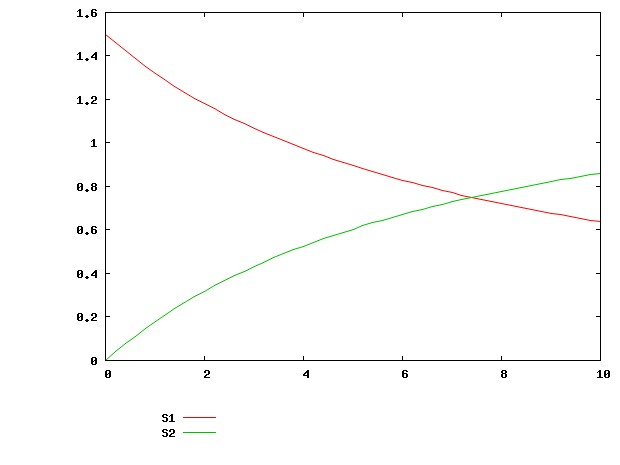
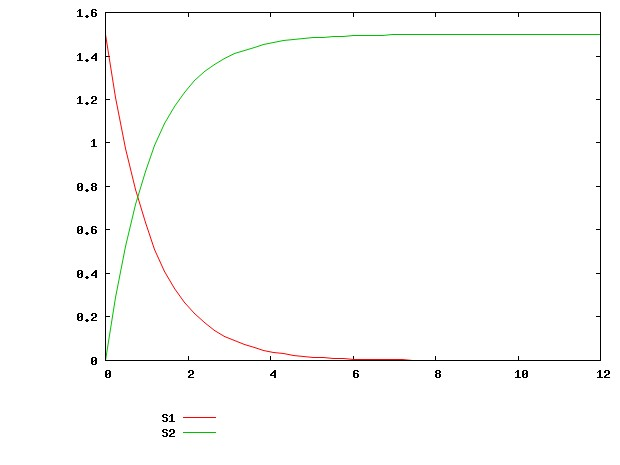
Tracker issue #2172466 these models assigned value to a compartment using a species; which is cyclical and not valid SBML

diff --git a/cases/semantic/00312/00312-model.m b/cases/semantic/00312/00312-model.m
@@ -3,26 +3,28 @@
 category:      Test
 synopsis:      Basic single forward reaction with two species in a compartment
                whose volume is varying.
-componentTags: Compartment, Species, Reaction, Parameter, AssignmentRule 
-testTags:      InitialAmount, NonConstantCompartment
+componentTags: Compartment, Species, Reaction, Parameter, AssignmentRule, RateRule 
+testTags:      InitialAmount, NonConstantCompartment, NonConstantParameter
 testType:      TimeCourse
 levels:        1.2, 2.1, 2.2, 2.3
 generatedBy:   Numeric
 
-The model contains one varying compartment called "compartment".  There are two
-species called S1 and S2 and two parameters called k1 and p1.  The model
+The model contains one varying compartment called C.  There are two
+species called S1 and S2 and three parameters called k1, p1 and p2.  The model
 contains one reaction defined as:
 
 [{width:30em,margin-left:5em}|  *Reaction*  |  *Rate*  |
-| S1 -> S2 | $k1 * S1 * compartment$  |]
+| S1 -> S2 | $k1 * S1 * C$  |]
 
-The model contains one rule which assigns value to compartment:
+The model contains two rules. The assignmentRule assigns value to C
+and the rateRule determines the rate at which p2 is varying:
 
 [{width:30em,margin-left:5em}|  *Type*  |  *Variable*  |  *Formula*  |
- | Assignment | compartment | $p1 * S1$  |]
+ | Assignment | C | $p1 * p2$  |
+ | Rate       |     p2      | $0.1       |]
 
 In this case, the initial value is not declared for compartment
-"compartment" and must be calculated by the assignmentRule.  Note that
+C and must be calculated by the assignmentRule.  Note that
 since this assignmentRule must always remain true, it should be considered
 during simulation.
 
@@ -32,8 +34,9 @@ The initial conditions are as follows:
 |Initial amount of S1                |$          1.5$ |mole                      |
 |Initial amount of S2                |$            0$ |mole                      |
 |Value of parameter k1               |$          0.9$ |second^-1^ |
-|Value of parameter p1               |$          0.1$ |litre^2^ mole^-1^ |
-|Volume of compartment "compartment" |$   undeclared$ |litre                     |]
+|Value of parameter p1               |$          0.1$ |litre mole^-1^ |
+|Value of parameter p2               |$          1.5$ |mole second^-1^ |
+|Volume of compartment C |$   undeclared$ |litre                     |]
 
 The species values are given as amounts of substance to make it easier to
 use the model in a discrete stochastic simulator, but (as per usual SBML
@@ -44,13 +47,15 @@ where they appear in expressions.
 
 newcase[ "00312" ];
 
-addCompartment[ compartment, constant->False ];
+addCompartment[ C, constant->False ];
 addSpecies[ S1, initialAmount -> 1.5 ];
 addSpecies[ S2, initialAmount -> 0 ];
 addParameter[ k1, value -> 0.9 ];
 addParameter[ p1, value -> 0.1 ];
-addRule[ type->AssignmentRule, variable -> compartment, math -> p1 * S1];
+addParameter[ p2, value-> 1.5, constant -> False];
+addRule[ type->AssignmentRule, variable -> C, math -> p1 * p2];
+addRule[ type->RateRule, variable -> p2, math -> 0.1];
 addReaction[ S1 -> S2, reversible -> False,
-	     kineticLaw -> k1 * S1 * compartment ];
+	     kineticLaw -> k1 * S1 * C ];
 
 makemodel[]
